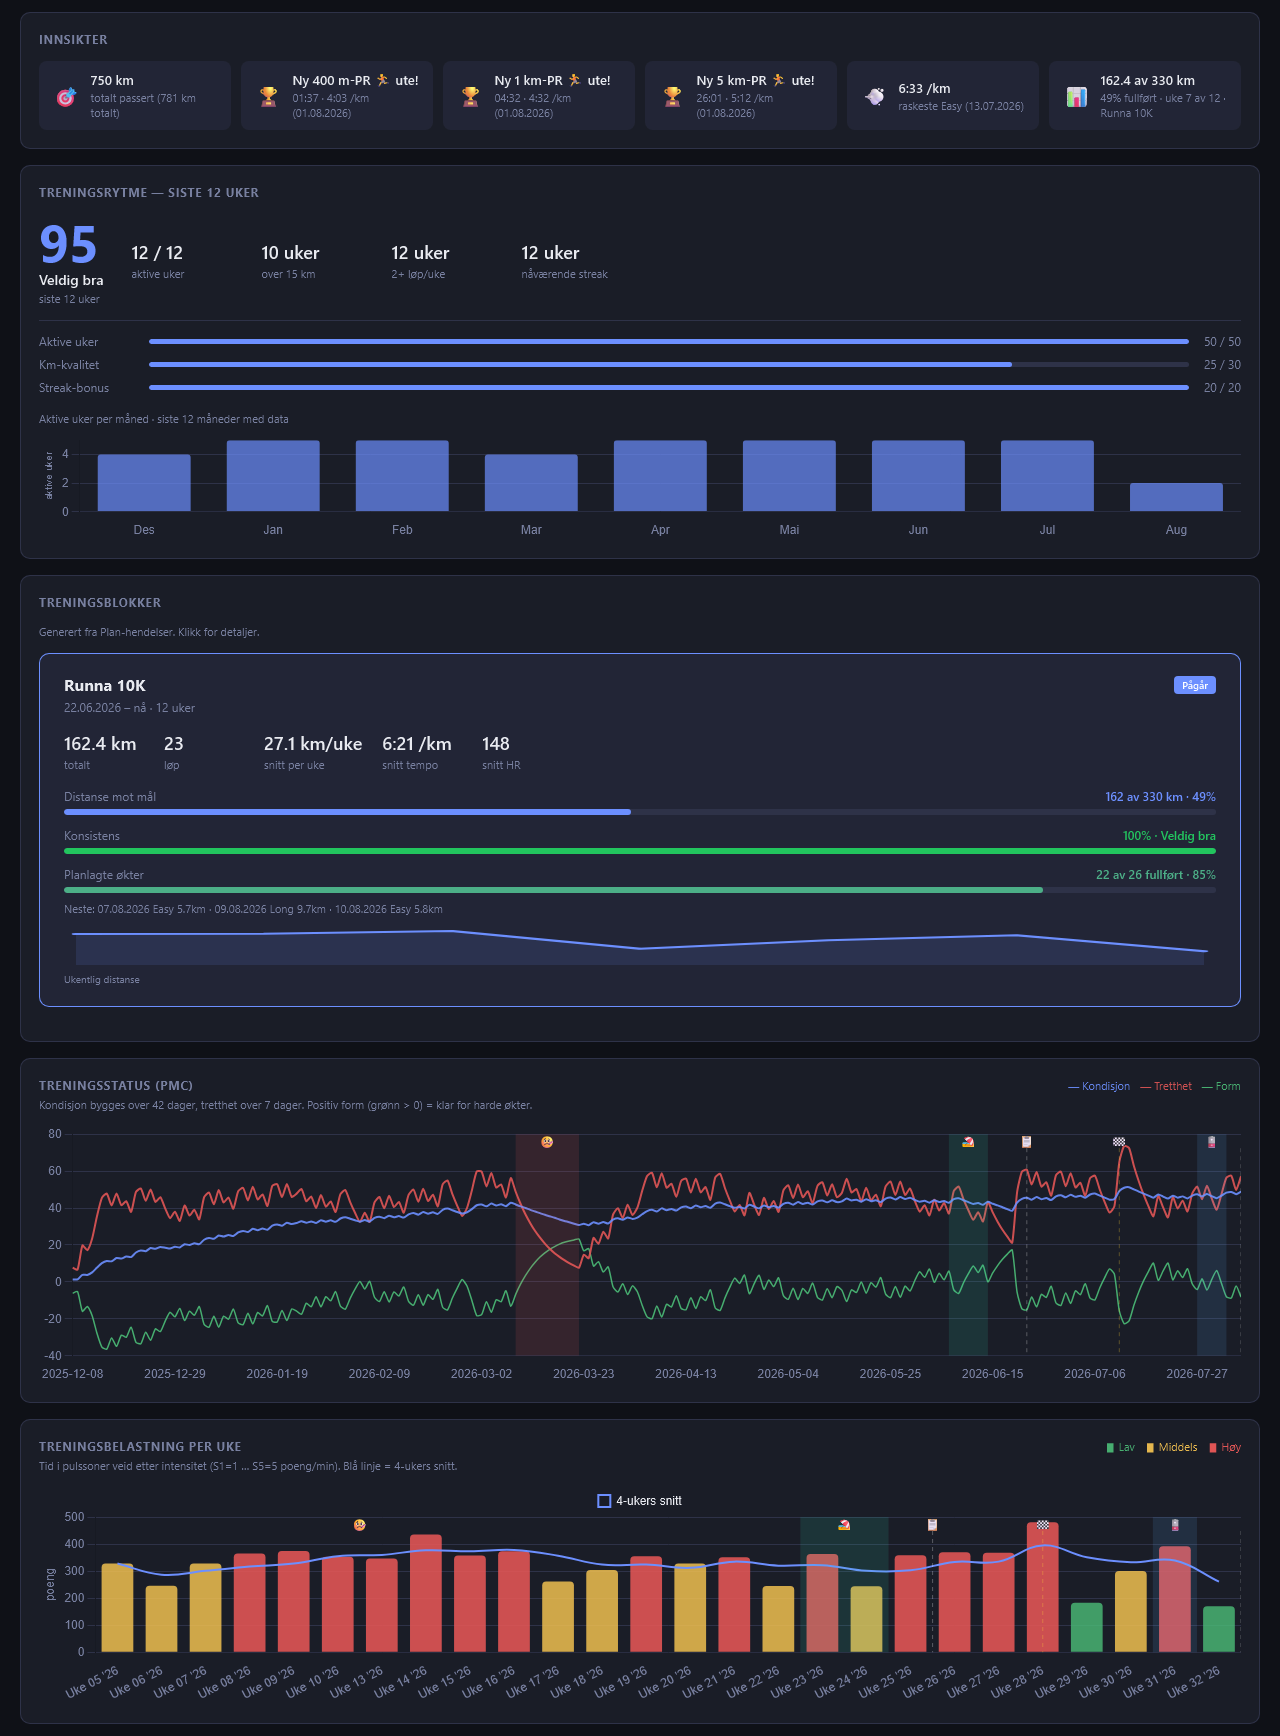
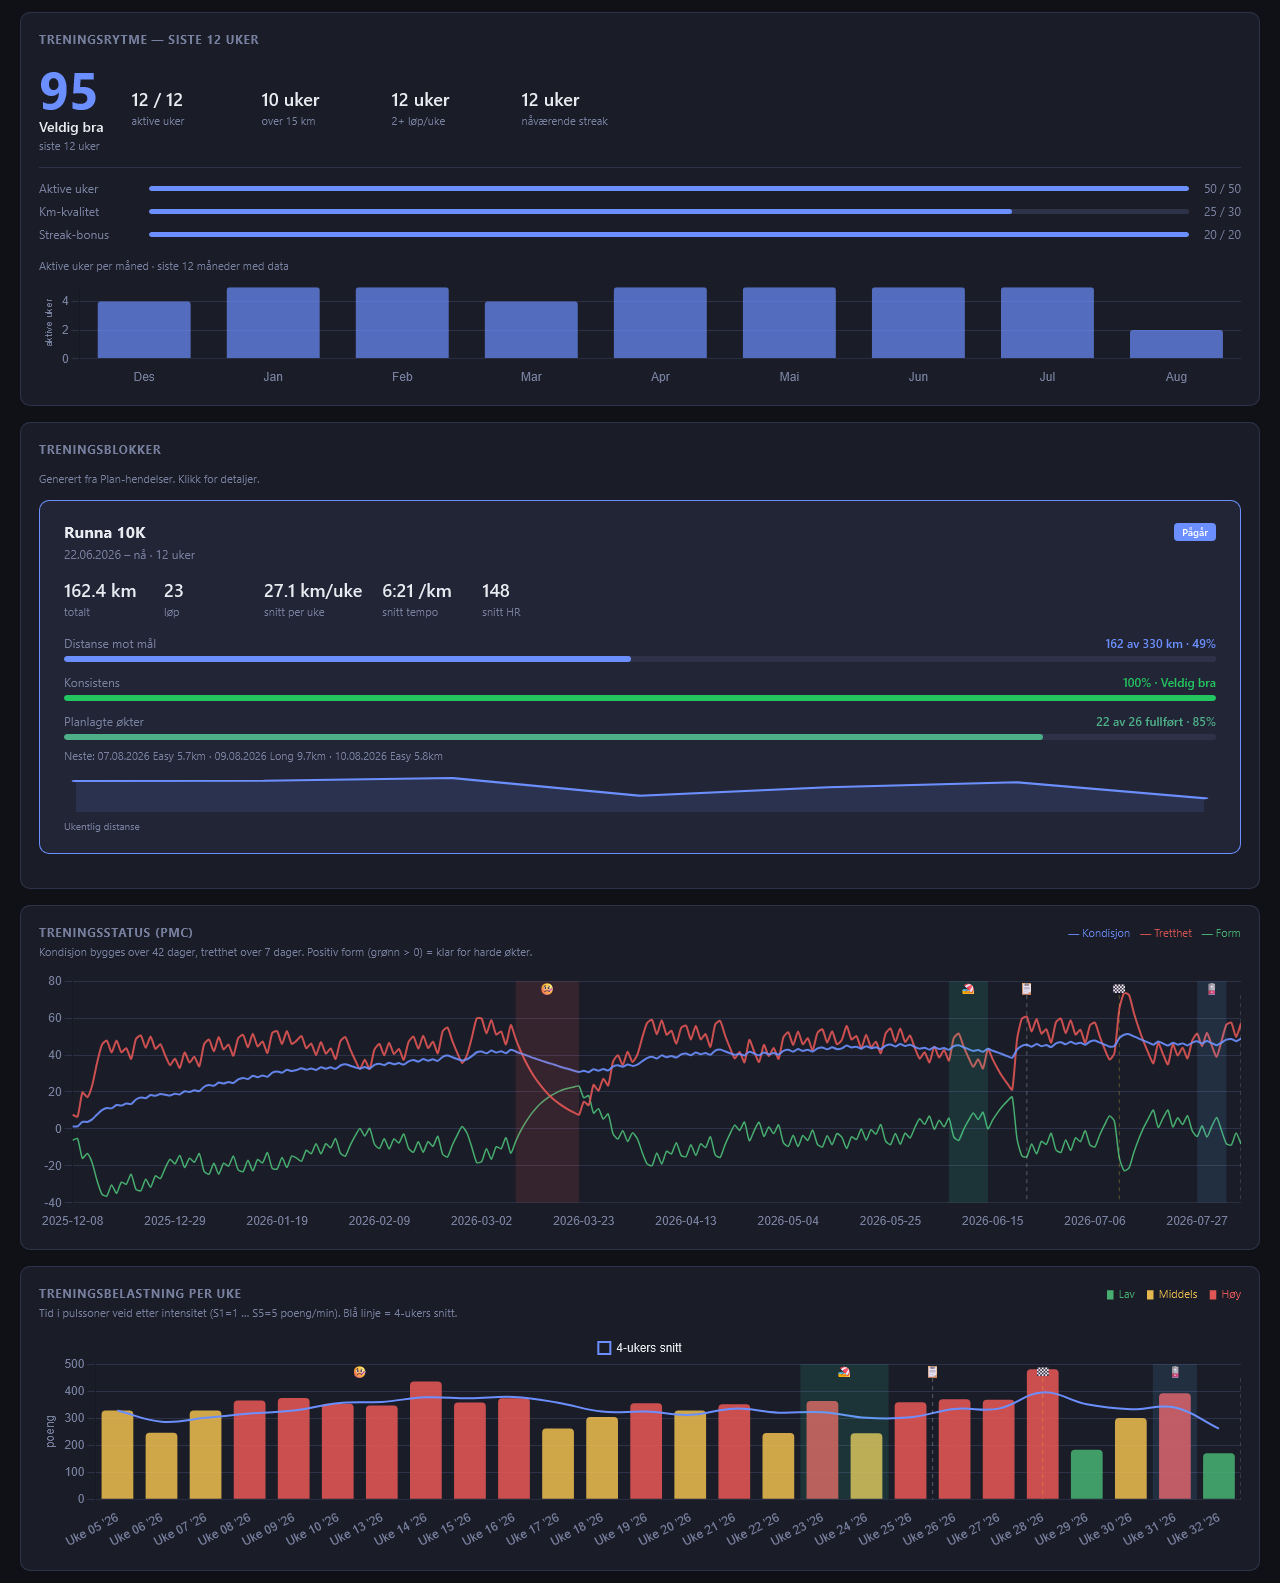
Innsikter leads the dashboard grid — deadlines above reference
Innsikter is the only dashboard card carrying things that expire: a race
countdown, a streak about to lapse, an ACWR "høy skaderisiko, ro ned".
Those are worth something today and nothing next week. Everything that sat
above it — Årsmål, and Rekorder with PRs, Prognose, Tidsmål and Formkurve
in one card — is reference you consult deliberately.

It mattered most at 402px, where the grid stacks and Rekorder is very tall,
so a warning landed a long way below the fold. Markup move only: no logic,
no generator change, no numbers touched.

Found while regenerating the screenshots, and worth recording because
nothing failed: make-screenshots.py anchored charts.png on the TOP OF
INNSIKTER, purely because Innsikter happened to follow Rekorder. Promoting
the card left that anchor perfectly valid and completely wrong — the crop
now started near the page top, swallowed Rekorder, and overlapped
dashboard.png. No error, no failed assertion; the only symptom was the file
growing 184KB -> 317KB. Re-anchored on Treningsrytme, the first card that
actually belongs to the analysis half rather than one that merely sat next
to it. The two crops tile again (0-2164, 2156-3739).

That is the screenshot-rot failure mode in its purest form: an anchor that
encodes an adjacency rather than a meaning survives the change that
invalidates it.

dashboard.png and charts.png regenerated; the other three are unaffected
and byte-identical. Gate 8/8, insights/charts/weeknow/goals suites green.
No version bump.

diff --git a/puls.html b/puls.html
@@ -832,6 +832,16 @@
   <div class="card" id="weekNowCard" style="display:none"></div>
 
   <div class="dash-grid">
+    <!-- Innsikter leads the grid: it is the only card here carrying DEADLINES — a race countdown, a
+         streak about to lapse, an ACWR "ro ned". Those decay, so they are worth something today and
+         nothing next week. Everything below it is reference (records, prognoses, goals) that you
+         consult deliberately rather than glance at. It matters most at 402px, where the whole grid
+         stacks and Rekorder — PRs + Prognose + Tidsmål + Formkurve in one card — used to push a
+         warning far below the fold. -->
+    <div class="card span2" id="insightCard">
+      <div class="card-title">Innsikter</div>
+      <div id="insightContent"></div>
+    </div>
     <div class="card span2" id="goalCard" style="display:none">
       <div class="card-title" id="goalCardTitle">Årsmål</div>
       <div id="goalProgress"></div>
@@ -860,10 +870,6 @@
         <div style="height:180px"><canvas id="chartFormkurve"></canvas></div>
         <div style="font-size:10px;color:var(--muted);margin-top:4px">Hvert testløp Riegel-normalisert til 5 km-tid — lavere er bedre. Oppover i grafen = bedre form.</div>
       </div>
-    </div>
-    <div class="card span2" id="insightCard">
-      <div class="card-title">Innsikter</div>
-      <div id="insightContent"></div>
     </div>
     <div class="card span2" id="rhythmCard">
       <div class="card-title">Treningsrytme — siste 12 uker</div>
